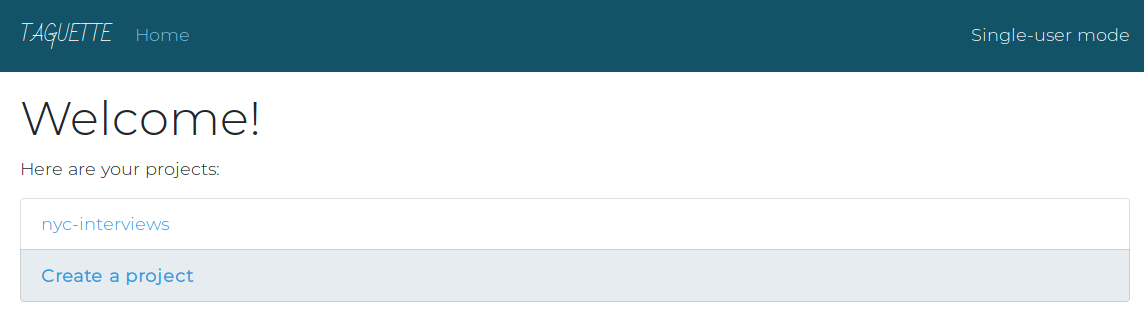
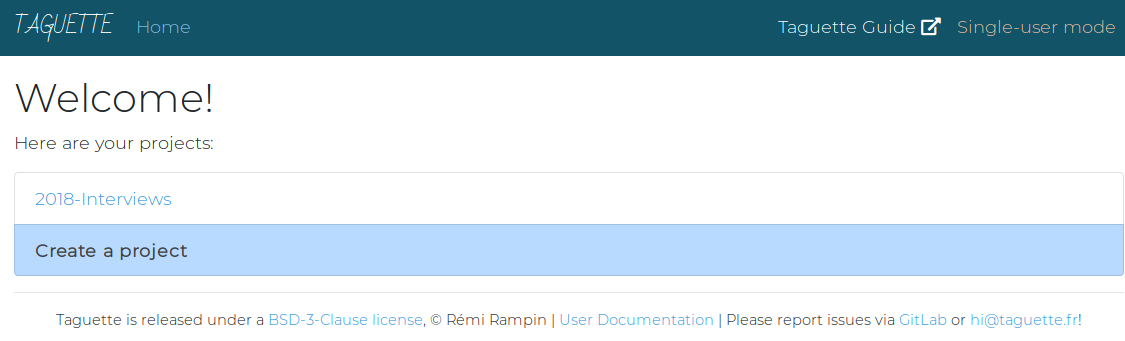
updated screenshots & content on getting-started for v0.41, fixed nav not responding

diff --git a/getting-started.html b/getting-started.html
@@ -22,15 +22,14 @@
   </head>
 
   <body>
-
     <nav class="navbar navbar-expand-lg navbar-dark bg-primary">
       <div class="container">
         <a class="navbar-brand" href="#" style="font-family: BadScript;">TAGUETTE</a>
-        <button class="navbar-toggler" type="button" data-toggle="collapse" data-target="#navbarsExampleDefault" aria-controls="navbarsExampleDefault" aria-expanded="false" aria-label="Toggle navigation">
+        <button class="navbar-toggler" type="button" data-toggle="collapse" data-target="#navbar" aria-controls="navbar" aria-expanded="false" aria-label="Toggle navigation">
           <span class="navbar-toggler-icon"></span>
         </button>
 
-        <div class="collapse navbar-collapse" id="navbarsExampleDefault">
+        <div class="collapse navbar-collapse" id="navbar">
           <ul class="navbar-nav mr-auto">
             <li class="nav-item">
               <a class="nav-link" href="index.html">Home</a>
@@ -65,33 +64,33 @@
 
         <h3 id="start"><i class="far fa-play-circle"></i> Start it up!</h3>
 
-        <p>Right now, to start Taguette on your local computer, you must run <code>taguette</code> in the terminal. You'll see the command line will still be running. This is ok! Don't worry about the terminal but do leave it running. If you exit the terminal, Taguette will stop. In your web browser, navigate to <a href="http://localhost:8000"><code>localhost:8000</code></a> to begin working on your projects! It should look something like this:</p>
+        <p>Once you've downloaded and installed Taguette on your computer, you should be able to double-click on the Taguette icon and start it up! You'll see the command line will pop up and be running. This is ok! Don't worry about the terminal but do leave it running. If you exit the terminal, Taguette will stop. Taguette should automatically pop up in your web browser, but if for some reason it doesn't, navigate to <a href="http://localhost:8000"><code>localhost:8000</code></a> to begin working on your projects! It should look something like this:</p>
 
-        <img src="imgs/01-welcome.png" style="border: 1px solid #125368;">
+        <img src="imgs/01-welcome.png" class="img-fluid border border-dark">
         <br/><br/>
 
         <h3 id="create-proj"><i class="fas fa-folder-plus"></i> Creating a new project</h3>
 
         <p>You will see a page that greets you as the admin and has a button to <strong>Create a project</strong>. Click that button and you'll be prompted to enter a Title and Description for your new project. This can be changed later on if you want.</p>
 
-        <img src="imgs/02-createProj.png" style="border: 1px solid #125368;">
+        <img src="imgs/02-createProj.png" class="img-fluid border border-dark">
         <br/><br/>
 
         <p>Upon clicking <strong>Create</strong>, you'll be taken the <strong>Project View</strong>, which has a left and a right pane. The left pane contains the information about your project information ('Project Info'), uploaded materials ('Documents'), and tags ('Highlights') as tabs. You can go between these tabs as you like. The right pane will render documents and will be the area where you'll do the highlighting and tagging.</p>
 
-        <img src="imgs/03-projectInfo.png" style="border: 1px solid #125368;">
+        <img src="imgs/03-projectInfo.png" class="img-fluid border border-dark">
         <br/><br/>
 
         <h3 id="upload"><i class="fas fa-upload"></i> Upload your materials</h3>
 
         <p>To get an idea of how to work in Taguette, let's upload a document and get you tagging! In the left pane, click on the <strong>Documents tab</strong>. You should see a button that says <strong>Add a document</strong>. Click that and pick just one document from your computer, either a: <code>.pdf</code>, <code>.docx</code>, <code>.txt</code>, <code>.odt</code>, <code>.md</code>, or <code>.html</code>.</p>
 
-				<img src="imgs/04-viewDocs.png" style="border: 1px solid #125368;">
+				<img src="imgs/04-viewDocs.png" class="img-fluid border border-dark">
         <br/><br/>
 
         <p>Just one file to be uploaded. You'll be prompted to give the new document a Name (should be something human-readable, required) and Description (like a note about the file, optional). When you have picked a document and at least given it a name, click the <strong>Import</strong> button.</p>
 
-        <img src="imgs/05-uploadDoc.png" style="border: 1px solid #125368;">
+        <img src="imgs/05-uploadDoc.png" class="img-fluid border border-dark">
         <br/><br/>
 
         <p>You should then see that file immediately in the Documents tab. If not, just refresh the page and it should be shown then. If you cannot see your document, you might be uploading a file type that Taguette can not yet handle. Please let us know at <a href="mailto:hi@taguette.fr">hi@taguette.fr</a>.</p>
@@ -100,70 +99,123 @@
 
 				<p>Taguette ships with two existing tags (or <em>codes</em>, if you're familiar with qualitative research): <code>interesting</code> and <code>people</code>. These are just there to get you started -- you can add and remove tags as often as you'd like! To view all your existing tags, click the <strong>Highlights</strong> tab in the leftpane.</p>
 
-				<img src="imgs/06-viewTags.png" style="border: 1px solid #125368;">
+				<img src="imgs/06-viewTags.png" class="img-fluid border border-dark">
         <br/><br/>
 
         <p>You should see a list of existing tags for the project - again, if you haven't added any yet, you will still see <code>interesting</code> and <code>people</code>. To add your own tags to this project, click <strong>Create a tag</strong>. You will get a popup asking you for the Name and Description of the tag you want to create:</p>
 
-        <img src="imgs/07-addTag.png" style="border: 1px solid #125368;">
+        <img src="imgs/07-addTag.png" class="img-fluid border border-dark">
         <br/><br/>
 
-        <p>After you give the tag a good name and a bit of description about what the tag means, you should see it added to the end of the list of existing tags.</p>
+        <p>You might have noticed that I used the tag <code>tech.floss</code> and you might be wondering why I used that notation. In Taguette, you can use <em>any punctuation</em> to make hierarchies. So <code>tech.floss</code> lives underneath <code>tech</code>. If I click on <code>tech.floss</code>, then I'll see only materials relating to that tag. If I click on <code>tech</code>, I'll see everything in that tag as we as <code>tech.floss</code> and any other sub-tag. 
+          
+       <p>After you give the tag a good name and a bit of description about what the it means, you should see it added to the list in alphabetical order.</p>
 
-        <p>You can also delete a tag by clicking the <code>edit</code> badge to the right of name of the tag in the list. This will bring you back to the same popup - you can edit the name of the tag, its description, or you can click the grey <strong>Delete</strong> button next to the blue <strong>Save &amp; Close</strong> button.
-
+        <p>You can also delete a tag by clicking the <code>edit</code> badge to the right of name of the tag in the list. This will bring you back to the same popup - you can edit the name of the tag, its description, or you can click the grey <strong>Delete</strong> button next to the blue <strong>Save &amp; Close</strong> button.</p>
+        
+        <img src="imgs/08-changeTag.png" class="img-fluid border border-dark">
+        <br/><br/>
+        
         <p>Now that you've created a tag of your own, you can move onto highlighting text!</p>
 
         <h3 id="highlight"><i class="fas fa-highlighter"></i> Highlighting</h3>
 
         <p>Once uploaded, you should see the document in the 'Documents' tab. Click on it and you should see the contents of your document in the right pane. Once you see the text in the right pane, we can start highlighting it!</p>
 
-        <img src="imgs/045-viewDocs.png" style="border: 1px solid #125368;">
+        <img src="imgs/09-viewDocContents.png" class="img-fluid border border-dark">
         <br/><br/>
 
         <p>Select some text by left-clicking and dragging it over the text you'd like to highlight. Once you let go of your left-click, a pop-up that says <strong>new highlight</strong> will appear next to the highlighted text. </p>
 
-        <img src="imgs/08-highlightText.png" style="border: 1px solid #125368;">
+        <img src="imgs/10-highlightText.png" class="img-fluid border border-dark">
         <br/><br/>
 
         <p>Click that pop-up, and you will get a list of existing tags from which to choose. You can select one or more tags to apply to the highlight text.</p>
 
-        <img src="imgs/09-addHighlight.png" style="border: 1px solid #125368;">
+        <img src="imgs/11-addHighlight.png" class="img-fluid border border-dark">
         <br/><br/>
 
-        <p>Once you've checked off which tags you'd like to associate with the highlighted text, click <strong>Save &amp; Close</strong>, and the text you've just tagged should now be highlighted with the color associated with the tag (e.g. bright yellow).</p>
+        <p>If you want to add a tag instead of using one that already exists, then simply click <strong>Create a tag</strong>, and you'll be sent to the same popup where made tags earlier.</p>
+        
+        <img src="imgs/12-createNewFromHL.png" class="img-fluid border border-dark">
+        <br/><br/>
+        
+        <p>Once you make your tag, you'll be dropped back into the popup above where you should select a tag for the highlighted text. After you've checked off which tags you'd like to associate with the highlighted text, click <strong>Save &amp; Close</strong>, and the text you've just tagged should now be highlighted with the color associated with the tag (e.g. bright yellow).</p>
 
-        <p>If you've accidentally tagged a section of text you didn't want to, you can delete it by clicking on the highlighted text. This will give you the same pop-up window that you used to tag it. Next to the save button, there is a grey button called <strong>Delete highlight</strong>. Click that, and the tags will be removed from the text. It should no longer by highlighted.</p>
-
+        <p>If you've accidentally tagged a section of text you didn't want to, you can delete it by clicking on the highlighted text. This will give you the same pop-up window that you used to tag it. Next to the save button, there is a red button called <strong>Delete highlight</strong>. Click that, and the tags will be removed from the text. It should no longer by highlighted.</p>
 
         <h3 id="upload"><i class="fas fa-file-invoice"></i> View highlighted &amp; tagged text</h3>
 
-        <p>If you want to see all the highlighted text associated with a given tag, first go to the <strong>Highlights</strong> tab in the left pane. Click a tag, and in the right pane you will see a list of quotes with a blue link to the document where they originated from:</p>
+        <p>If you want to see all the highlighted text associated with a given tag, first go to the <strong>Highlights</strong> tab in the left pane. Click a tag, and in the right pane you will see a list of quotes with a blue link to the document where they originated from and all their associated tags with a black badge:</p>
 
-        <img src="imgs/10-viewQuotes.png" style="border: 1px solid #125368;">
+        <img src="imgs/13-viewQuotes.png" class="img-fluid border border-dark">
+        <br/><br/>
+        
+        <p>If you want to see all the highlighted text for <em>all documents</em> and <em>all tags</em>, click <strong>See all highlights</strong> and you will see a list of quotes with a blue link to the document where they originated from and all their associated tags with a black badge:</p>
+        
+        <img src="imgs/14-seeAllHighlights.png" class="img-fluid border border-dark">
+        <br/><br/>
+        
+        <p>You can also view the document with all it's highlights by navigating to the <strong>Documents</strong> tab in the left pane. Then just click on the document you wish to view, and if you've highlighted it, you should see:</p>
+        
+        <img src="imgs/15-viewHighlightedDoc.png" class="img-fluid border border-dark">
+        <br/><br/>
+        
+        <p>To explore your highlighted document in a different way, you can try clicking on <strong>Backlight</strong> checkbox. You see see it underneath the <strong>Add a document</strong> button. It will grey out all the non-highlighted text to make the highlighted text really pop. We found this to be a nice view for exploring the texts differently:</p>
+                
+        <img src="imgs/16-backlight.png" class="img-fluid border border-dark">
         <br/><br/>
 
         <h3 id="export"><i class="fas fa-file-export"></i> Export Options</h3>
 
         <p>To export the codebook of your project - this is a list of all the tags that you've created alongside their description - use the dropdown menu in the <strong>Project</strong> tab in the left pane of Taguette, underneath the project description. There is a variety of export options, including <code>CSV</code> (spreadsheet), <code>DOCX</code> (Microsoft Word), and <code>PDF</code>.</p>
 
-        <img src="imgs/11-exportCodebook.png" style="border: 1px solid #125368;">
+        <img src="imgs/17-exportCodebook.png" class="img-fluid border border-dark">
+        <br/><br/>
 
-        <p>To export the current view, either a highlighted document or a list of highlights, use the dropdown menu at the top right. Again, you will have a choice of <code>CSV</code>, <code>DOCX</code>, or <code>PDF</code>.</p>
+         <p>To export all the associated highlights for a given tag, first navigate to the <strong>Highlights</strong> tab in the left pane, and click on the tag of the highlights you'd want to export. Then you can use the <strong>Export this view</strong> dropdown menu at the top right in the right pane. You will have a choice of <code>HTML</code> (like for a webpage), <code>DOCX</code> (editable), or <code>PDF</code> (not easily editable). While you will see the document with all the highlights, right now you won't be able to tell from that doc which tags go with the highlights.</p>
+        
+        <img src="imgs/18-exportTag.png" class="img-fluid border border-dark">
+        <br/><br/>
+        
+        <p>You will see all the highlighted text for the particular tag with information about each highlight right underneath it -- which document it came from, and which tags are associated with it. This is how it looks with the <code>DOCX</code> export:</p>
+        
+        <img src="imgs/19-exportTagEX.png" class="img-fluid border border-dark">
+        <br/><br/>
+        
+        <p>To export all the tags with all associated highlights, first navigate to the <strong>Highlights</strong> tab in the left pane, and click on <strong>See all highlights</strong>. Then you can use the <strong>Export this view</strong> dropdown menu at the top right in the right pane. Again, you will have a choice of <code>HTML</code>, <code>DOCX</code>, or <code>PDF</code>.</p>
+       
+        <img src="imgs/20-exportAllTags.png" class="img-fluid border border-dark">
+        <br/><br/>
+        
+        <p>You will see all the highlighted text for all tags with information about it -- which document it came from, and which tags are associated with it. This is how it looks with the <code>DOCX</code> export:</p>
+        
+        <img src="imgs/21-exportAllTagEX.png" class="img-fluid border border-dark">
+        <br/><br/>
+        
+        <p>To export the document that you've highlighted, first navigate to the <strong>Documents</strong> tab in the left pane, and click on the document that you want to export. Then you can use the <strong>Export this view</strong> dropdown menu at the top right in the right pane. Again, you will have a choice of <code>HTML</code>, <code>DOCX</code>, or <code>PDF</code>.</p>
+        
+        <img src="imgs/22-exportDoc.png" class="img-fluid border border-dark">
+        <br/><br/>
+        
+        <p>While you will see the document with all the highlights, right now you won't be able to tell which tags go with the highlights, but we are working on that feature to make this export more useful. This is how it looks with the <code>DOCX</code> export:</p>
+        
+        <img src="imgs/23-exportDocEXs.png" class="img-fluid border border-dark">
 
         <hr/>
       </div>
     </main>
 
     <footer class="container">
-      <p>Last Updated: 2018-11-11 | Email: <a href="mailto:hi@taguette.fr">hi@taguette.fr</a> | Tweet us: <a href="https://twitter.com/TaguetteProject">@TaguetteProject</a> | Any issues using Taguette? Tell us on <a href="https://gitlab.com/remram44/taguette">GitLab</a>!</p>
+      <p>Last Updated: 2018-11-12 | Email: <a href="mailto:hi@taguette.fr">hi@taguette.fr</a> | Tweet us: <a href="https://twitter.com/TaguetteProject">@TaguetteProject</a> | Any issues using Taguette? Tell us on <a href="https://gitlab.com/remram44/taguette">GitLab</a>!</p>
     </footer>
 
     <!-- Bootstrap core JavaScript
     ================================================== -->
     <!-- Placed at the end of the document so the pages load faster -->
-    <script src="/js/popper.min.js"></script>
-    <script src="/js/bootstrap.min.js"></script>
-    <script src="/js/jquery-slim.min.js"></script>
+    <script src="js/jquery-slim.min.js"></script>
+    <script src="js/popper.min.js"></script>
+    <script src="js/bootstrap.bundle.min.js"></script>
+    <script src="js/bootstrap.min.js"></script>
   </body>
 </html>

diff --git a/about.html b/about.html
@@ -26,11 +26,11 @@
     <nav class="navbar navbar-expand-lg navbar-dark bg-primary">
       <div class="container">
         <a class="navbar-brand" href="index.html" style="font-family: BadScript;">TAGUETTE</a>
-        <button class="navbar-toggler" type="button" data-toggle="collapse" data-target="#navbarsExampleDefault" aria-controls="navbarsExampleDefault" aria-expanded="false" aria-label="Toggle navigation">
+        <button class="navbar-toggler" type="button" data-toggle="collapse" data-target="#navbar" aria-controls="navbar" aria-expanded="false" aria-label="Toggle navigation">
           <span class="navbar-toggler-icon"></span>
         </button>
 
-        <div class="collapse navbar-collapse" id="navbarsExampleDefault">
+        <div class="collapse navbar-collapse" id="navbar">
           <ul class="navbar-nav mr-auto">
             <li class="nav-item">
               <a class="nav-link" href="index.html">Home</a>
@@ -69,7 +69,7 @@
           <li>Import PDFs, Word Docs (.docx), Text files (.txt), HTML, EPUB, MOBI, Open Documents (.odt), and Rich Text Files (.rtf).</li>
           <li>Highlight words, sentences, or paragraphs and tag them with the codes *you* create.</li>
           <li>Group imported documents together (e.g. as 'Interview' or 'Lit Review').</li>
-          <li>Export tagged documents, highlights for a specific tag, a list of tags with description and colors, and whole projects.</li>
+          <li>Export tagged documents, highlights for a specific tag, highlights for all tags, and a list of tags with their descriptions.</li>
         </ul>
 
         <p>...and much more! You can view our development queue on GitLab here: <a href="https://gitlab.com/remram44/taguette/issues">https://gitlab.com/remram44/taguette/issues</a>. You can always add feature requests, bug reports, or general feedback via GitLab issues. If you are not sure how to do that, feel free to email us your feedback at <a href="mailto:hi@taguette.fr">hi@taguette.fr</a>.</p>
@@ -88,7 +88,8 @@
 
         <p>Taguette was developed by Rémi Rampin. Vicky Steeves and Sarah DeMott provided the functional requirements, user needs, and testing in order to influence the development process.</p>
 
-        <table style="height: 100%; width:100%;">
+        <div class="table-responsive-lg">
+        <table class="table table-borderless">
           <tbody>
             <tr>
               <td><a href="https://remirampin.com"><img src="imgs/remi.jpg" alt="Remi Rampin"/><br/>Rémi Rampin</a><br/>Main Dev</td>
@@ -97,20 +98,21 @@
             </tr>
           </tbody>
         </table>
-
-        <hr/>
+        </div>
       </div>
     </main>
 
     <footer class="container">
-      <p>Last Updated: 2018-11-11 | Email: <a href="mailto:hi@taguette.fr">hi@taguette.fr</a> | Tweet us: <a href="https://twitter.com/TaguetteProject">@TaguetteProject</a> | Any issues using Taguette? Tell us on <a href="https://gitlab.com/remram44/taguette">GitLab</a>!</p>
+      <hr/>
+      <p>Last Updated: 2018-11-12 | Email: <a href="mailto:hi@taguette.fr">hi@taguette.fr</a> | Tweet us: <a href="https://twitter.com/TaguetteProject">@TaguetteProject</a> | Any issues using Taguette? Tell us on <a href="https://gitlab.com/remram44/taguette">GitLab</a>!</p>
     </footer>
 
     <!-- Bootstrap core JavaScript
     ================================================== -->
     <!-- Placed at the end of the document so the pages load faster -->
-    <script src="/js/popper.min.js"></script>
-    <script src="/js/bootstrap.min.js"></script>
-    <script src="/js/jquery-slim.min.js"></script>
+    <script src="js/jquery-slim.min.js"></script>
+    <script src="js/popper.min.js"></script>
+    <script src="js/bootstrap.bundle.min.js"></script>
+    <script src="js/bootstrap.min.js"></script>
   </body>
 </html>

diff --git a/install.html b/install.html
@@ -26,11 +26,11 @@
     <nav class="navbar navbar-expand-lg navbar-dark bg-primary">
       <div class="container">
         <a class="navbar-brand" href="#" style="font-family: BadScript;">TAGUETTE</a>
-        <button class="navbar-toggler" type="button" data-toggle="collapse" data-target="#navbarsExampleDefault" aria-controls="navbarsExampleDefault" aria-expanded="false" aria-label="Toggle navigation">
+        <button class="navbar-toggler" type="button" data-toggle="collapse" data-target="#navbar" aria-controls="navbar" aria-expanded="false" aria-label="Toggle navigation">
           <span class="navbar-toggler-icon"></span>
         </button>
 
-        <div class="collapse navbar-collapse" id="navbarsExampleDefault">
+        <div class="collapse navbar-collapse" id="navbar">
           <ul class="navbar-nav mr-auto">
             <li class="nav-item">
               <a class="nav-link" href="index.html">Home</a>
@@ -67,7 +67,7 @@
 
         <h3 id="installers">Installers</h3>
 
-        <p><a href="https://gitlab.com/remram44/taguette/tags/v0.4.1">Installers are available from MacOS and Windows from our latest release page</a>. Those include Python, Taguette, and Calibre, so you don't need to install anything else. A "Taguette" entry should appear in your list of applications (Start Menu on Windows, or Launchpad/Spotlight on MacOS).</p>
+        <p><a href="https://gitlab.com/remram44/taguette/tags/v0.4">Installers are available from MacOS and Windows from our latest release page</a>. Those include Python, Taguette, and Calibre, so you don't need to install anything else. A "Taguette" entry should appear in your list of applications (Start Menu on Windows, or Launchpad/Spotlight on MacOS).</p>
 
         <p>Once you start the application, you will see a terminal window appear. This is normal! You can ignore it completely and use Taguette from your web browser (<a href="http://localhost:8000/"><code>localhost:8000</code></a> should open automatically). Simply leave the terminal window open until you are done using Taguette, after which you can close that terminal window to stop Taguette.</p>
 
@@ -100,14 +100,15 @@
     </main>
 
     <footer class="container">
-      <p>Last Updated: 2018-11-11 | Email: <a href="mailto:hi@taguette.fr">hi@taguette.fr</a> | Tweet us: <a href="https://twitter.com/TaguetteProject">@TaguetteProject</a> | Any issues using Taguette? Tell us on <a href="https://gitlab.com/remram44/taguette">GitLab</a>!</p>
+      <p>Last Updated: 2018-11-12 | Email: <a href="mailto:hi@taguette.fr">hi@taguette.fr</a> | Tweet us: <a href="https://twitter.com/TaguetteProject">@TaguetteProject</a> | Any issues using Taguette? Tell us on <a href="https://gitlab.com/remram44/taguette">GitLab</a>!</p>
     </footer>
 
     <!-- Bootstrap core JavaScript
     ================================================== -->
     <!-- Placed at the end of the document so the pages load faster -->
-    <script src="/js/popper.min.js"></script>
-    <script src="/js/bootstrap.min.js"></script>
-    <script src="/js/jquery-slim.min.js"></script>
+    <script src="js/jquery-slim.min.js"></script>
+    <script src="js/popper.min.js"></script>
+    <script src="js/bootstrap.bundle.min.js"></script>
+    <script src="js/bootstrap.min.js"></script>
   </body>
 </html>

diff --git a/index.html b/index.html
@@ -26,11 +26,11 @@
     <nav class="navbar navbar-expand-lg navbar-dark bg-primary">
       <div class="container">
         <a class="navbar-brand" href="#" style="font-family: BadScript;">TAGUETTE</a>
-        <button class="navbar-toggler" type="button" data-toggle="collapse" data-target="#navbarsExampleDefault" aria-controls="navbarsExampleDefault" aria-expanded="false" aria-label="Toggle navigation">
+        <button class="navbar-toggler" type="button" data-toggle="collapse" data-target="#navbar" aria-controls="navbar" aria-expanded="false" aria-label="Toggle navigation">
           <span class="navbar-toggler-icon"></span>
         </button>
 
-        <div class="collapse navbar-collapse" id="navbarsExampleDefault">
+        <div class="collapse navbar-collapse" id="navbar">
           <ul class="navbar-nav mr-auto">
             <li class="nav-item active">
               <a class="nav-link" href="#">Home <span class="sr-only">(current)</span></a>
@@ -96,14 +96,15 @@
     </main>
 
     <footer class="container">
-      <p>Last Updated: 2018-11-11 | Email: <a href="mailto:hi@taguette.fr">hi@taguette.fr</a> | Tweet us: <a href="https://twitter.com/TaguetteProject">@TaguetteProject</a> | Any issues using Taguette? Tell us on <a href="https://gitlab.com/remram44/taguette">GitLab</a>!</p>
+      <p>Last Updated: 2018-11-12 | Email: <a href="mailto:hi@taguette.fr">hi@taguette.fr</a> | Tweet us: <a href="https://twitter.com/TaguetteProject">@TaguetteProject</a> | Any issues using Taguette? Tell us on <a href="https://gitlab.com/remram44/taguette">GitLab</a>!</p>
     </footer>
 
     <!-- Bootstrap core JavaScript
     ================================================== -->
     <!-- Placed at the end of the document so the pages load faster -->
-    <script src="/js/popper.min.js"></script>
-    <script src="/js/bootstrap.min.js"></script>
-    <script src="/js/jquery-slim.min.js"></script>
+    <script src="js/jquery-slim.min.js"></script>
+    <script src="js/popper.min.js"></script>
+    <script src="js/bootstrap.bundle.min.js"></script>
+    <script src="js/bootstrap.min.js"></script>
   </body>
 </html>
